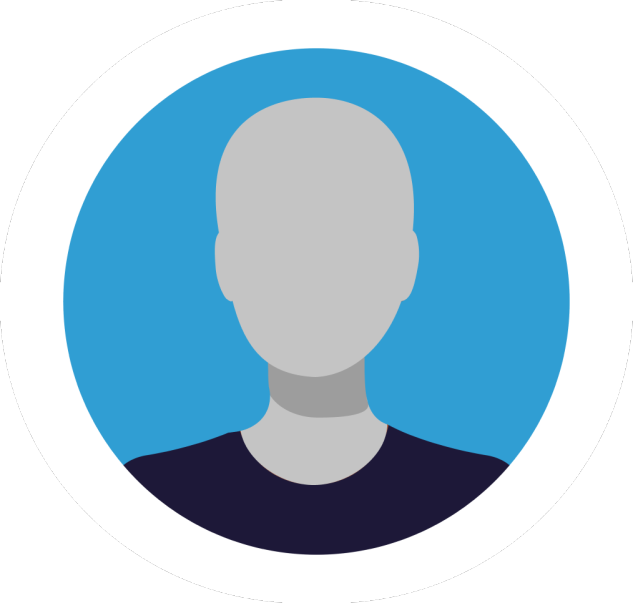
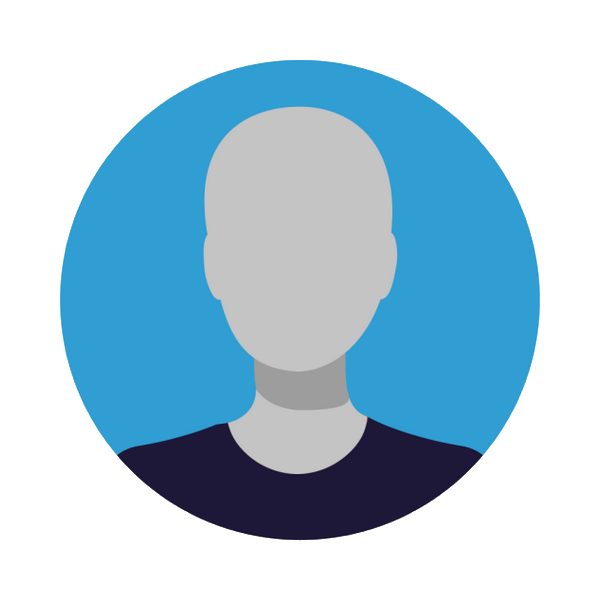
Profile account details

diff --git a/public/js/lunchbox.js b/public/js/lunchbox.js
@@ -1,0 +1,68 @@
+const lunchBox = document.getElementById("id-lunchbox");
+const items = document.getElementById("items-div");
+let open;
+
+const containerSlot = document.querySelector(".slot");
+const emojis = ["☢", "☣", "💥", "💣", "☠", "🔪", "💸", "💉", "✨"];
+
+lunchBox.addEventListener("click", openLunch);
+lunchBox.addEventListener("click", fiesta);
+
+function openLunch() {
+    if (open == 0) {
+        lunchBox.src = "img/profile/nuclear-cloud.png";
+        lunchBox.style.animation = "none";
+        items.style.display = "block";
+        open++;
+    } else {
+        lunchBox.src = "img/profile/lunchbox.png";
+        lunchBox.style.display = "block";
+        lunchBox.style.animation =
+            "LunchBox 2s ease 0s infinite normal forwards";
+        items.style.display = "none";
+        open = 0;
+    }
+    return open;
+}
+
+function fiesta() {
+    // Si isTweening est true alors tu animes rien du tout, tu sors de la fonction
+    if (isTweening()) return;
+    // 50 = nombre d'emojis que l'on veut
+    for (let i = 0; i < 50; i++) {
+        const confetti = document.createElement("div");
+        // Emoji au hasard
+        confetti.innerText = emojis[Math.floor(Math.random() * emojis.length)];
+        // On l'ajoute à la div enfant de slot
+        containerSlot.appendChild(confetti);
+    }
+
+    animateConfettis();
+}
+
+function animateConfettis() {
+    const TLCONF = gsap.timeline();
+    // timeline => on y met des animations
+    TLCONF.to(".slot div", {
+        y: "random(-100,100)",
+        x: "random(-100,100)",
+        // 1000 étant la perspective, axe de l'animation jusqu'à l'écran de 0 à 1000
+        z: "random(0,1000)",
+        // On fait tourner les emojis
+        rotation: "random(-90,90)",
+        // Ca dure 1 seconde
+        duration: 1,
+    })
+        // Faire disparaître les emojis
+        .to(".slot div", { autoAlpha: 0, duration: 0.3 }, "-=0.2")
+        .add(() => {
+            // Pour faire disparaître totalement les emojis du DOM
+            containerSlot.innerHTML = "";
+        });
+}
+
+function isTweening() {
+    // Est-ce que cela s'anime ?
+    // Ca renvoit true si c'est animé, ou false si ça ne l'est pas
+    return gsap.isTweening(".slot div");
+}

diff --git a/public/css/authentification/account.css b/public/css/authentification/account.css
@@ -1,0 +1,74 @@
+/* LUNCHBOX */
+
+.slot {
+    position: relative;
+    /* Profondeur sur le parent */
+    perspective: 1000px;
+}
+
+/* Enfants -> div du slot */
+.slot div {
+    width: 35px;
+    height: 35px;
+    border-radius: 50%;
+    position: absolute;
+    top: 50%;
+    left: 50%;
+    transform: translate(-50%, -50%);
+    /* On sait jamais, user-select none permettra de pas selectionner les emojis */
+    user-select: none;
+}
+
+.lunchbox-div,
+.items-div {
+    text-align: center;
+}
+
+.lunchbox {
+    margin: 0 auto;
+    width: 6em;
+    font-size: 30px;
+    animation: LunchBox 2s ease 0s infinite normal forwards;
+}
+
+.items-div {
+    display: none;
+}
+
+@keyframes LunchBox {
+    0%,
+    100% {
+        transform: rotate(0deg);
+        transform-origin: 50% 50%;
+    }
+
+    10% {
+        transform: rotate(8deg);
+    }
+
+    20%,
+    40%,
+    60% {
+        transform: rotate(-10deg);
+    }
+
+    30%,
+    50%,
+    70% {
+        transform: rotate(10deg);
+    }
+
+    80% {
+        transform: rotate(-8deg);
+    }
+
+    90% {
+        transform: rotate(8deg);
+    }
+}
+
+/* AVATAR */
+
+.img-avatar {
+    width: 5em;
+}

diff --git a/resources/views/users/MonCompte.blade.php b/resources/views/users/MonCompte.blade.php
@@ -1,14 +1,33 @@
 @extends('template')
+
+<head>
+    <link rel="stylesheet" href="{{ asset('css/authentification/account.css') }}">
+</head>
+
 @section('content')
     <h2>Mon profil</h2>
+
+    <article>
+        <div class="verified">
+            {{ session('isVerified') == null ? 'NOT VERIFIED' : 'VERIFIED' }}
+        </div>
+        <div class="lunchbox-div">
+            {{-- Là où sera tous nos emojis -> slot --}}
+            <div class="slot"></div>
+            <img src="img/profile/lunchbox.png" class="lunchbox" id="id-lunchbox" alt="">
+        </div>
+        <div class="items-div" id="items-div">
+            Prout
+        </div>
+    </article>
 
     <form method="POST" action="/mon-profil" enctype="multipart/form-data">
         @csrf
 
-        {{-- <div class="avatar">
-            <img src="" alt="" class="img-avatar">
+        <div class="avatar">
+            <img src="{{ Session::get('avatar') }}" alt="" class="img-avatar">
         </div>
-        <div class="form-group">
+        {{-- <div class="form-group">
             <label for="form-Avatar">Changer mon avatar</label>
             <input type="file" name="avatar" id="form-Avatar" class="form-Avatar">
         </div> --}}
@@ -40,4 +59,7 @@
         </div>
 
     </form>
+
+    <script src="https://cdnjs.cloudflare.com/ajax/libs/gsap/3.6.1/gsap.min.js"></script>
+    <script src="/js/lunchbox.js"></script>
 @endsection

diff --git a/resources/views/template.blade.php b/resources/views/template.blade.php
@@ -44,11 +44,11 @@
             <div id="nuka-link" class="link">
                 <a href="/nuka-world" class="linky">Nuka World</a>
             </div>
-            {{-- @if (request()->user()->isAdmin()) --}}
-            <div class="link">
-                <a href="#" class="linky">Gestion d'utilisateur</a>
-            </div>
-            {{-- @endif --}}
+            @if (session('type') == 'admin')
+                <div class="link">
+                    <a href="/gestion-utilisateur" class="linky">Gestion d'utilisateur</a>
+                </div>
+            @endif
             <div class="link">
                 <a href="#" class="linky">Contact</a>
             </div>
@@ -90,11 +90,11 @@
                 suppression d'une image qui vous appartient, merci de nous contacter.
             </p>
             <p>
-                Ceci est un projet scolaire qui a juste pour but de m'exercer sur le framework
+                Ceci est un projet scolaire qui a juste pour but de nous exercer sur le framework
                 Laravel.
             </p>
             <p>
-                © Copyright / Caroline Dorchies - Bethesda / 2022
+                © Copyright / Caroline Dorchies - Nicolas Payne - Bethesda / 2022
             </p>
         </div>
     </footer>

diff --git a/app/Http/Controllers/UserController.php b/app/Http/Controllers/UserController.php
@@ -4,7 +4,6 @@ namespace App\Http\Controllers;
 
 use App\Models\User;
 use Illuminate\Http\Request;
-
 use Illuminate\Support\Facades\Hash;
 
 class UserController extends Controller
@@ -26,7 +25,7 @@ class UserController extends Controller
         return view('users.MonCompte');
     }
 
-    // ****************************** ACTION ****************************** /
+    // ****************************** ACTIONS ****************************** /
 
     // Fonction pour réaliser l'inscription
     public function InscriptionAction(Request $request)
@@ -140,11 +139,11 @@ class UserController extends Controller
             'mdp' => ['required'],
             'password_confirmation' => ["required"],
         ]);
-     
+    
         // Permettra de rechercher l'utilisateur avec son iduser
         $user = User::where('iduser', session('iduser'));
 
-        // POUR PLUS TARD
+    
         // if(request('avatar') != "") {
         //     $user->avatar = request('avatar')->store('avatar', 'public');
         //     // store va dans le dossier avatar qui est dans le dossier public

diff --git a/app/Http/Middleware/isAdmin.php b/app/Http/Middleware/isAdmin.php
@@ -5,7 +5,7 @@ namespace App\Http\Middleware;
 use Closure;
 use Illuminate\Http\Request;
 
-class isLogged
+class isAdmin
 {
     /**
      * Handle an incoming request.
@@ -16,8 +16,8 @@ class isLogged
      */
     public function handle(Request $request, Closure $next)
     {
-        if (!session()->has('iduser')) {
-            return redirect('/connexion')->with('fail', 'Vous devez être connecté');
+        if(session('type') != "admin") {
+            return redirect('/');
         }
         return $next($request);
     }

diff --git a/app/Http/Kernel.php b/app/Http/Kernel.php
@@ -58,6 +58,8 @@ class Kernel extends HttpKernel
         'isLogged' => \App\Http\Middleware\isLogged::class,
         // MiddleWare pour rajouter la classe "Non connecté"
         'NotLogged' => \App\Http\Middleware\NotLogged::class,
+        // MiddleWare pour rajouter la classe "Est administrateur"
+        'isAdmin' => \App\Http\Middleware\isAdmin::class,
 
         'auth' => \App\Http\Middleware\Authenticate::class,
         'auth.basic' => \Illuminate\Auth\Middleware\AuthenticateWithBasicAuth::class,

diff --git a/routes/web.php b/routes/web.php
@@ -41,3 +41,6 @@ Route::get('/deconnexion', 'App\Http\Controllers\UserController@DeconnexionActio
 Route::get('/mon-profil', 'App\Http\Controllers\UserController@AffichageMonCompte')->middleware('isLogged');
 Route::post('/mon-profil', 'App\Http\Controllers\UserController@UpdateAction')->middleware('isLogged');
 
+// GESTION UTILISATEUR
+
+Route::get('/gestion-utilisateur', 'App\Http\Controllers\UserManagementController@AffichageGestion')->middleware('isAdmin');

diff --git a/app/Http/Controllers/UserManagementController.php b/app/Http/Controllers/UserManagementController.php
@@ -1,0 +1,14 @@
+<?php
+
+namespace App\Http\Controllers;
+
+use Illuminate\Http\Request;
+
+class UserManagementController extends Controller
+{
+        // Fonction qui va charger la view "Gestion d'utilisateur" dans le dossier users
+        public function AffichageGestion()
+        {
+            return view('usersManagement.userManagement');
+        }
+}

diff --git a/app/Models/User.php b/app/Models/User.php
@@ -7,14 +7,11 @@ use Illuminate\Database\Eloquent\Model;
 
 class User extends Model
 {
-
     protected $fillable  = [
-
         "nom",
         "prenom",
         "email",
         "password",
-
     ];
 
     use HasFactory;

diff --git a/resources/views/usersManagement/userManagement.blade.php b/resources/views/usersManagement/userManagement.blade.php
@@ -1,0 +1,5 @@
+@extends('template')
+
+@section('content')
+    <p>Hello</p>
+@endsection
